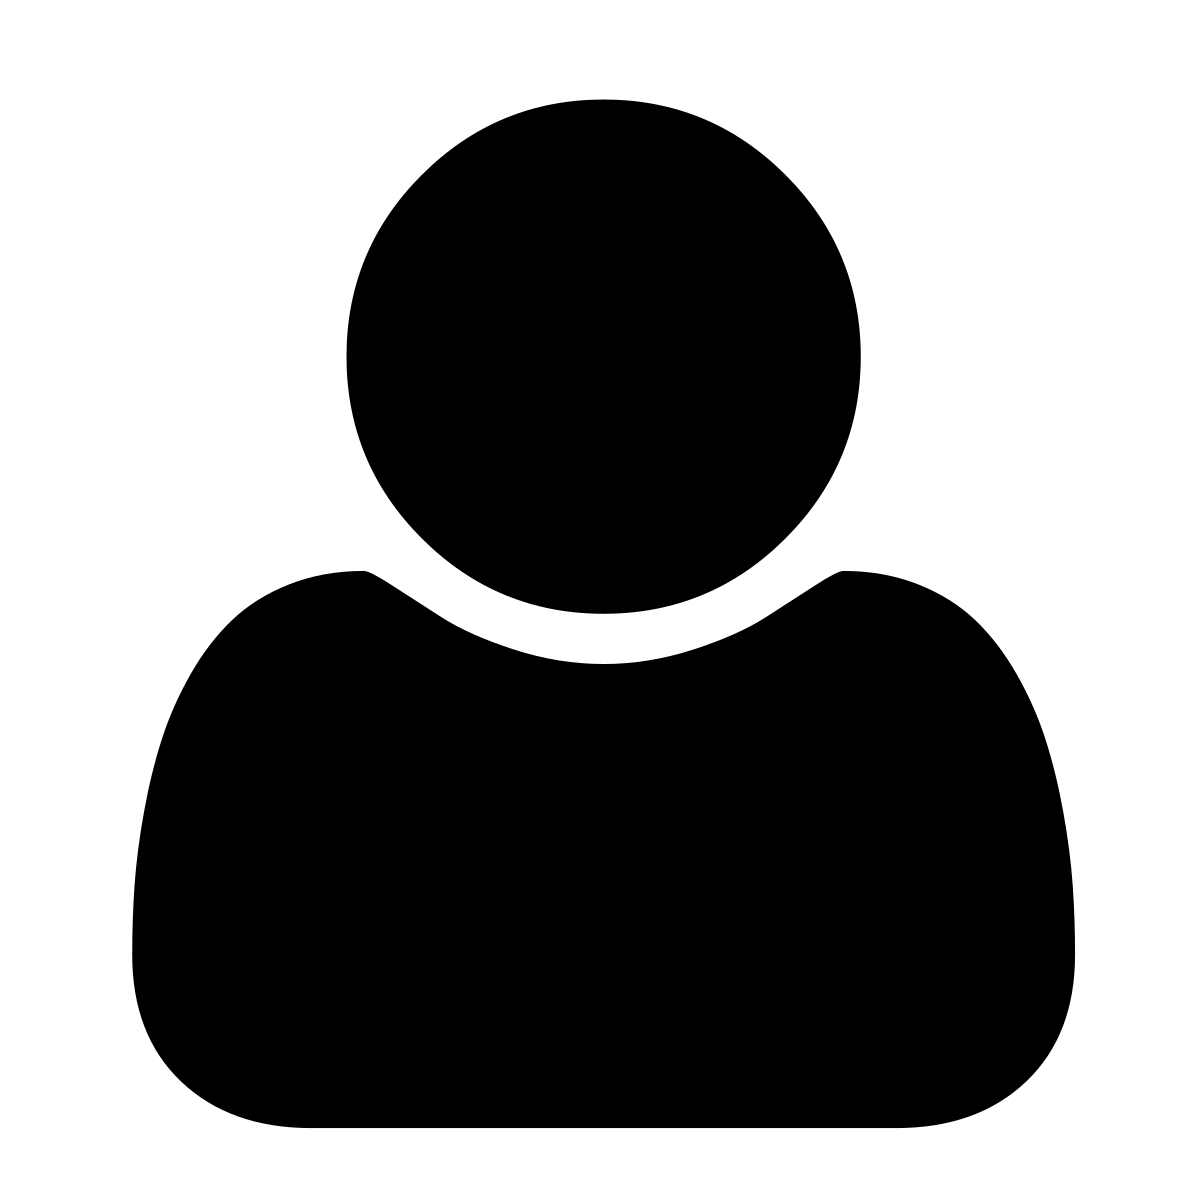
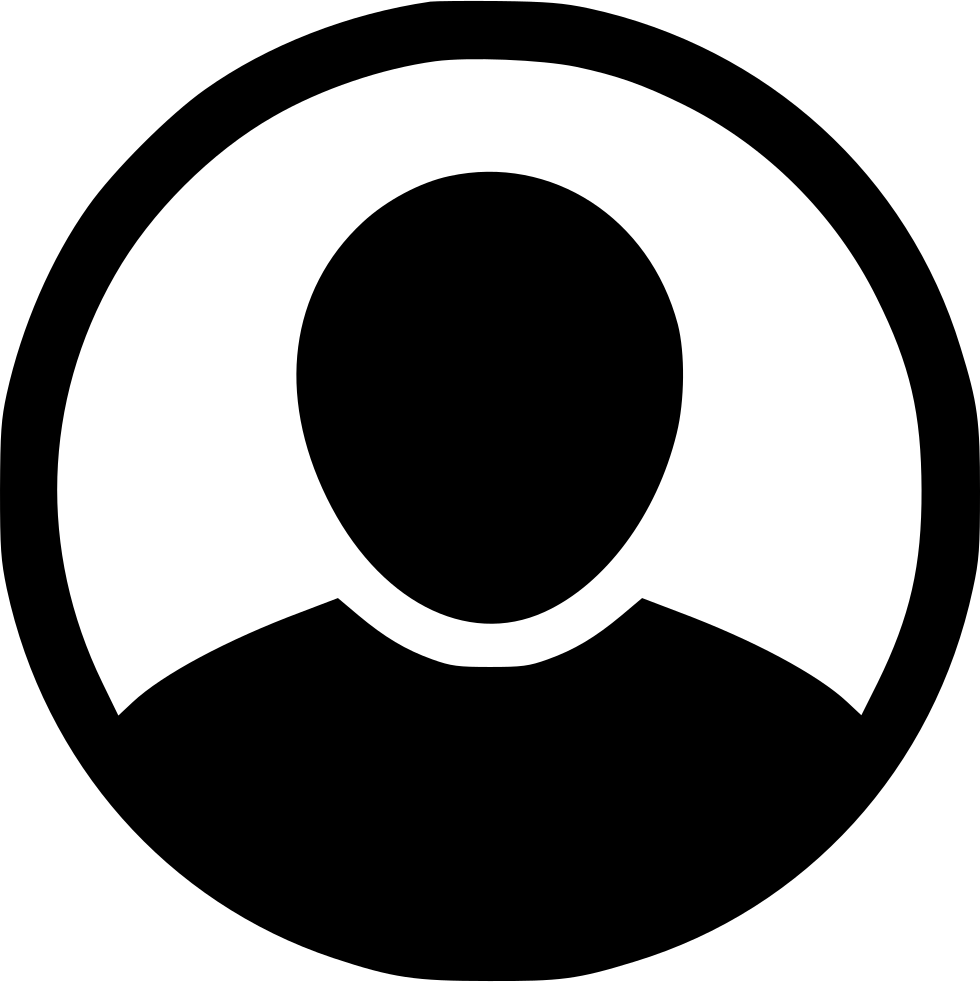
finishing admin
50000 jadi 50.000
ganti foto profile default
dijadikan huruf kapital asal daerah, bsnk asal, nama rekening

diff --git a/public/styles/admin_styles.css b/public/styles/admin_styles.css
@@ -187,7 +187,7 @@
 
 #welcome h1,
 #welcome h3{
-	font-family: ""Montserrat"";
+	font-family: 'Montserrat';
 	font-style: normal;
 	font-weight: 600;
 	color: white;

diff --git a/resources/views/admin/verifikasi.blade.php b/resources/views/admin/verifikasi.blade.php
@@ -55,7 +55,7 @@
 				<div class="col-2 d-none d-xl-block d-lg-block d-md-block d-sm-block"><span class="nopendaftaran searchable" id="nopendaftaran-{{$d->id_pendaftaran}}">{{$d->id_pendaftaran}}</span></div>
 				<div class="col-3"><span class="nama searchable" id="nama-{{$d->id_pendaftaran}}">{{$d->nama_pendaftar}}</span></div>
 				<div class="col-2 d-none d-xl-block"><span class="univ searchable" id="univ-{{$d->id_pendaftaran}}">{{$d->asal_univ_pendaftar}}</span></div>
-				<div class="col-2 col-lg-2 col-md-3 col-sm-3 d-none d-xl-block d-lg-block d-md-block d-sm-block"><span class="total">Rp {{$d->total_pembayaran}}</span></div>
+				<div class="col-2 col-lg-2 col-md-3 col-sm-3 d-none d-xl-block d-lg-block d-md-block d-sm-block"><span class="total">Rp {{number_format($d->total_pembayaran,0,',','.')}}</span></div>
 				<div class="col-2 col-lg-2 col-md-3 col-sm-3">
 					<div class="row mb-2 ">
 						<span class="badge
@@ -193,7 +193,7 @@
 				<div class="col-2 d-none d-xl-block d-lg-block d-md-block d-sm-block"><span class="nopendaftaran searchable" id="nopendaftaran-{{$d->id_pendaftaran}}">{{$d->id_pendaftaran}}</span></div>
 				<div class="col-3"><span class="nama searchable" id="nama-{{$d->id_pendaftaran}}">{{$d->nama_pendaftar}}</span></div>
 				<div class="col-2 d-none d-xl-block"><span class="univ searchable" id="univ-{{$d->id_pendaftaran}}">{{$d->asal_univ_pendaftar}}</span></div>
-				<div class="col-2 col-lg-2 col-md-3 col-sm-3 d-none d-xl-block d-lg-block d-md-block d-sm-block"><span class="total">Rp {{$d->total_pembayaran}}</span></div>
+				<div class="col-2 col-lg-2 col-md-3 col-sm-3 d-none d-xl-block d-lg-block d-md-block d-sm-block"><span class="total">Rp {{number_format($d->total_pembayaran,0,',','.')}}</span></div>
 				<div class="col-2 col-lg-2 col-md-3 col-sm-3">
 					<div class="row mb-2 ">
 						<span class="badge
@@ -335,7 +335,7 @@
 				<div class="col-2 d-none d-xl-block d-lg-block d-md-block d-sm-block"><span class="nopendaftaran searchable" id="nopendaftaran-{{$d->id_pendaftaran}}">{{$d->id_pendaftaran}}</span></div>
 				<div class="col-3"><span class="nama searchable" id="nama-{{$d->id_pendaftaran}}">{{$d->nama_pendaftar}}</span></div>
 				<div class="col-2 d-none d-xl-block"><span class="univ searchable" id="univ-{{$d->id_pendaftaran}}">{{$d->asal_univ_pendaftar}}</span></div>
-				<div class="col-2 col-lg-2 col-md-3 col-sm-3 d-none d-xl-block d-lg-block d-md-block d-sm-block"><span class="total">Rp {{$d->total_pembayaran}}</span></div>
+				<div class="col-2 col-lg-2 col-md-3 col-sm-3 d-none d-xl-block d-lg-block d-md-block d-sm-block"><span class="total">Rp {{number_format($d->total_pembayaran,0,',','.')}}</span></div>
 				<div class="col-2 col-lg-2 col-md-3 col-sm-3">
 					<div class="row mb-2 ">
 						<span class="badge

diff --git a/app/Http/Controllers/AdminController.php b/app/Http/Controllers/AdminController.php
@@ -55,9 +55,9 @@ class AdminController extends Controller
     	$datagraphic8_p = Pendaftaran::where('status_pendaftaran','=','1')->whereBetween(DB::raw('DATE(tgl_pendaftaran)'),[$dateMin1,$dateMax8])->count();
     	$datagraphic_p = [$datagraphic1_p,$datagraphic2_p,$datagraphic3_p,$datagraphic4_p,$datagraphic5_p,$datagraphic6_p,$datagraphic7_p,$datagraphic8_p];
 
-    	$datakonfirmasi = Pembayaran::select('p.pas_foto','p.nama_pendaftar','total_pembayaran','status_pembayaran')->join('pendaftaran as p','p.id_pendaftaran','=','pembayaran.id_pendaftaran')->take(3)->get();
+    	$datakonfirmasi = Pembayaran::select('p.pas_foto','p.nama_pendaftar','total_pembayaran','status_pembayaran')->join('pendaftaran as p','p.id_pendaftaran','=','pembayaran.id_pendaftaran')->orderBy('p.tgl_pendaftaran','DESC')->take(3)->get();
 
-    	$datapendaftar = Pendaftaran::select('pendaftaran.pas_foto','pendaftaran.nama_pendaftar','pendaftaran.asal_univ_pendaftar','p.status_pembayaran','pendaftaran.status_pendaftaran')->leftJoin('pembayaran as p','p.id_pendaftaran','=','pendaftaran.id_pendaftaran')->take(3)->get();
+    	$datapendaftar = Pendaftaran::select('pendaftaran.pas_foto','pendaftaran.nama_pendaftar','pendaftaran.asal_univ_pendaftar','p.status_pembayaran','pendaftaran.status_pendaftaran')->leftJoin('pembayaran as p','p.id_pendaftaran','=','pendaftaran.id_pendaftaran')->orderBy('pendaftaran.tgl_pendaftaran','DESC')->take(3)->get();
 
     	return view('admin.dashboard',['datacard' => $datacard,'datagraphic' => $datagraphic,'datakonfirmasi' => $datakonfirmasi,'datapendaftar' => $datapendaftar,'datagraphic_p' => $datagraphic_p]);
     }

diff --git a/app/Http/Controllers/PesertaController.php b/app/Http/Controllers/PesertaController.php
@@ -43,8 +43,8 @@ class PesertaController extends Controller
 
         $pembayaran = new Pembayaran;
         $pembayaran->id_pendaftaran = Auth::user()->id_pendaftaran;
-        $pembayaran->atas_nama_rekening = $request->atas_nama_rekening;
-        $pembayaran->bank_asal = $request->bank_asal;
+        $pembayaran->atas_nama_rekening = ucwords($request->atas_nama_rekening);
+        $pembayaran->bank_asal = ucwords($request->bank_asal);
         $pembayaran->nomor_rekening = $request->nomor_rekening;
         $pembayaran->total_pembayaran = $request->total_pembayaran;
         $pembayaran->status_pembayaran = 0;
@@ -83,7 +83,7 @@ class PesertaController extends Controller
         ]);
 
         $pendaftaran = Pendaftaran::find(Auth::user()->id_pendaftaran);
-        $pendaftaran->asal_daerah = $request->asal_daerah;
+        $pendaftaran->asal_daerah = ucwords($request->asal_daerah);
         $pendaftaran->no_telepon_pendaftar = $request->no_telepon_pendaftar;
         $pendaftaran->id_line_pendaftar = $request->id_line_pendaftar;
         $pendaftaran->status_pendaftaran = 1;

diff --git a/resources/views/admin/dashboard.blade.php b/resources/views/admin/dashboard.blade.php
@@ -151,7 +151,7 @@
 					@endif">
 				</div>
 				<div class="col-3"><span class="nama">{{$d->nama_pendaftar}}</span></div>
-				<div class="col-3 col-xs-2"><span class="total">Rp {{$d->total_pembayaran}}</span></div>
+				<div class="col-3 col-xs-2"><span class="total">Rp {{number_format($d->total_pembayaran,0,',','.')}}</span></div>
 				<div class="col col-xl-4 col-lg-4 col-md-4 col-sm-4 text-right"><span class="badge
 					@if($d->status_pembayaran)badge-success
 					@else
